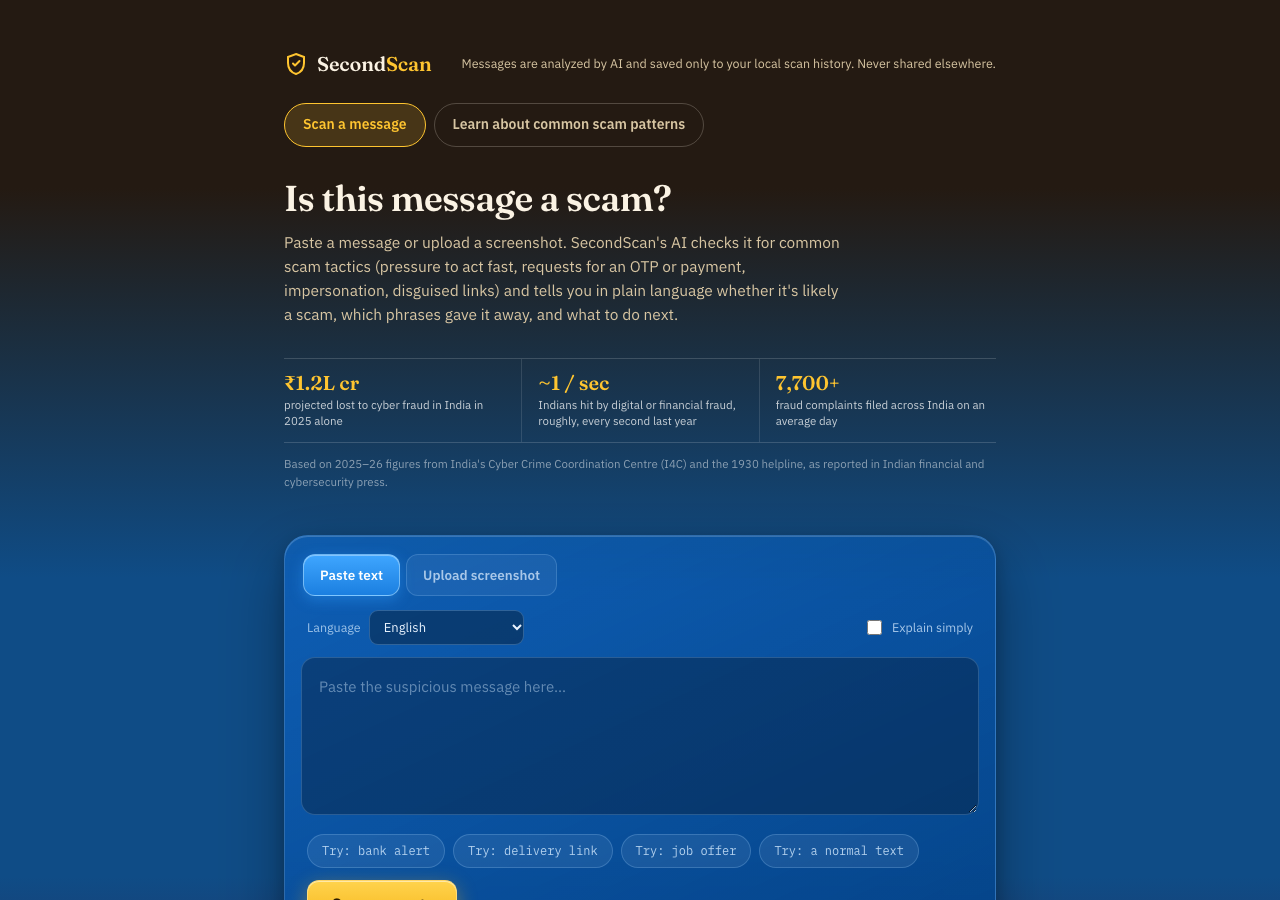
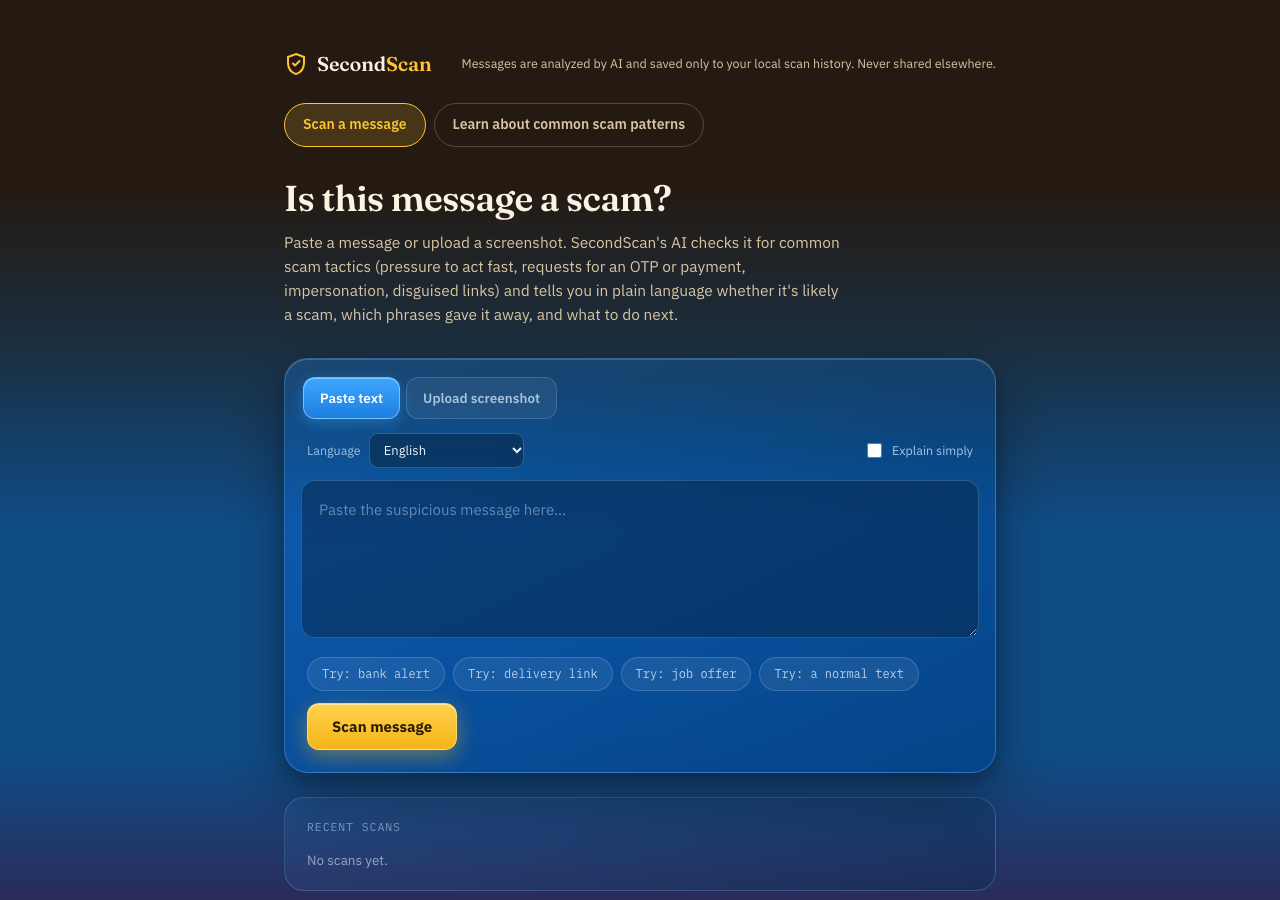
css/html updated

Changed region(s): [[0.0, 0.3733, 1.0, 1.0]]

diff --git a/static/secondscan.css b/static/secondscan.css
@@ -83,27 +83,6 @@ h1{
 .intro h1{ font-size:clamp(28px, 4.4vw, 36px); max-width:none; margin:0 0 12px; }
 .intro .sub{ font-size:15.5px; max-width:60ch; }
 
-.stat-band{
-  display:grid; grid-template-columns:1fr; margin:0 0 10px;
-  border-top:1px solid rgba(255,255,255,0.16); border-bottom:1px solid rgba(255,255,255,0.16);
-}
-.stat{ padding:9px 0; }
-.stat + .stat{ border-top:1px solid rgba(255,255,255,0.1); }
-@media (min-width: 600px){
-  .stat-band{ grid-template-columns:repeat(3, 1fr); }
-  .stat{ padding:13px 16px; }
-  .stat:first-child{ padding-left:0; }
-  .stat:last-child{ padding-right:0; }
-  .stat + .stat{ border-top:none; border-left:1px solid rgba(255,255,255,0.12); }
-}
-.stat-num{
-  font-family:'Fraunces', serif; font-weight:600;
-  font-size:clamp(17px, 2.3vw, 20px); color:var(--gold);
-  line-height:1.1; margin:0 0 3px;
-}
-.stat-label{ font-size:11.5px; color:rgba(255,255,255,0.76); line-height:1.4; margin:0; }
-.stat-source{ font-size:11.5px; color:rgba(255,255,255,0.5); margin:12px 0 44px; }
-
 .console{
   background:linear-gradient(155deg, rgba(90,170,255,0.16) 0%, rgba(10,52,96,0.42) 100%);
   border:1px solid rgba(150,205,255,0.28);

diff --git a/secondscan.html b/secondscan.html
@@ -40,22 +40,6 @@
 <section class="band band-primary">
 <div class="wrap">
 
-  <div class="stat-band">
-    <div class="stat">
-      <p class="stat-num">₹1.2L cr</p>
-      <p class="stat-label">projected lost to cyber fraud in India in 2025 alone</p>
-    </div>
-    <div class="stat">
-      <p class="stat-num">~1 / sec</p>
-      <p class="stat-label">Indians hit by digital or financial fraud, roughly, every second last year</p>
-    </div>
-    <div class="stat">
-      <p class="stat-num">7,700+</p>
-      <p class="stat-label">fraud complaints filed across India on an average day</p>
-    </div>
-  </div>
-  <p class="stat-source">Based on 2025–26 figures from India's Cyber Crime Coordination Centre (I4C) and the 1930 helpline, as reported in Indian financial and cybersecurity press.</p>
-
   <div class="console">
     <div class="tabs">
       <button class="tab-btn active" id="tabTextBtn">Paste text</button>
